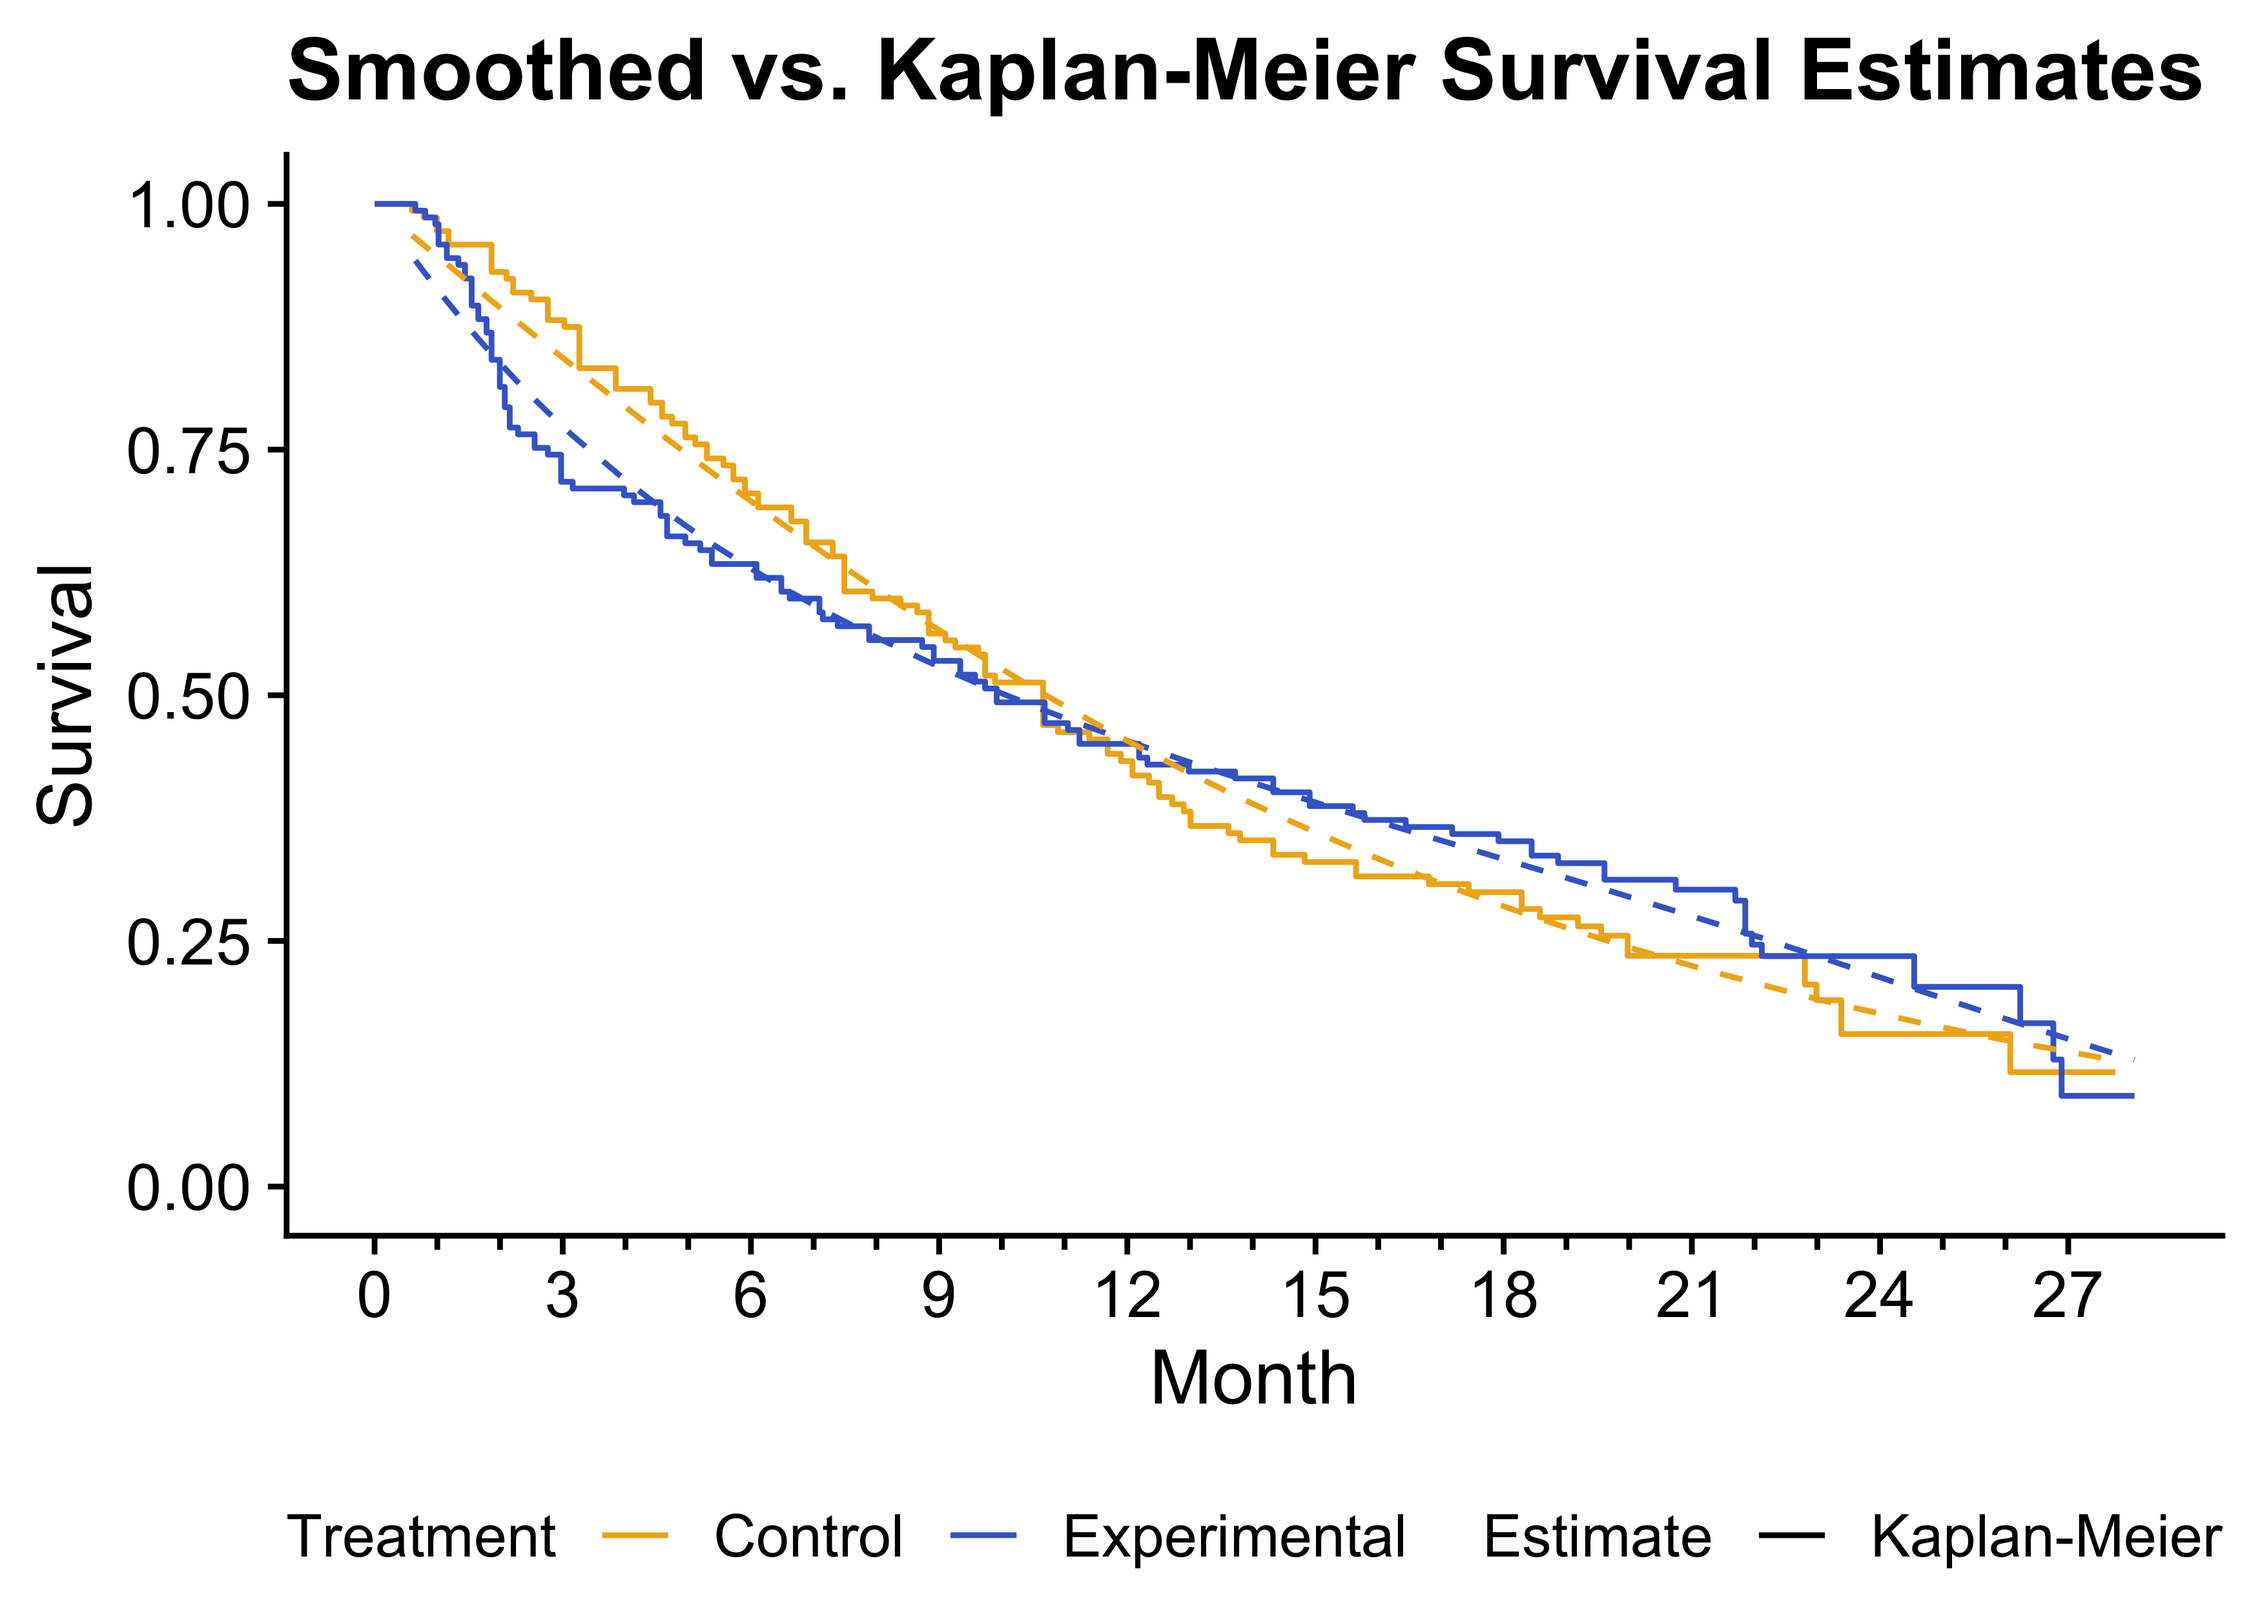
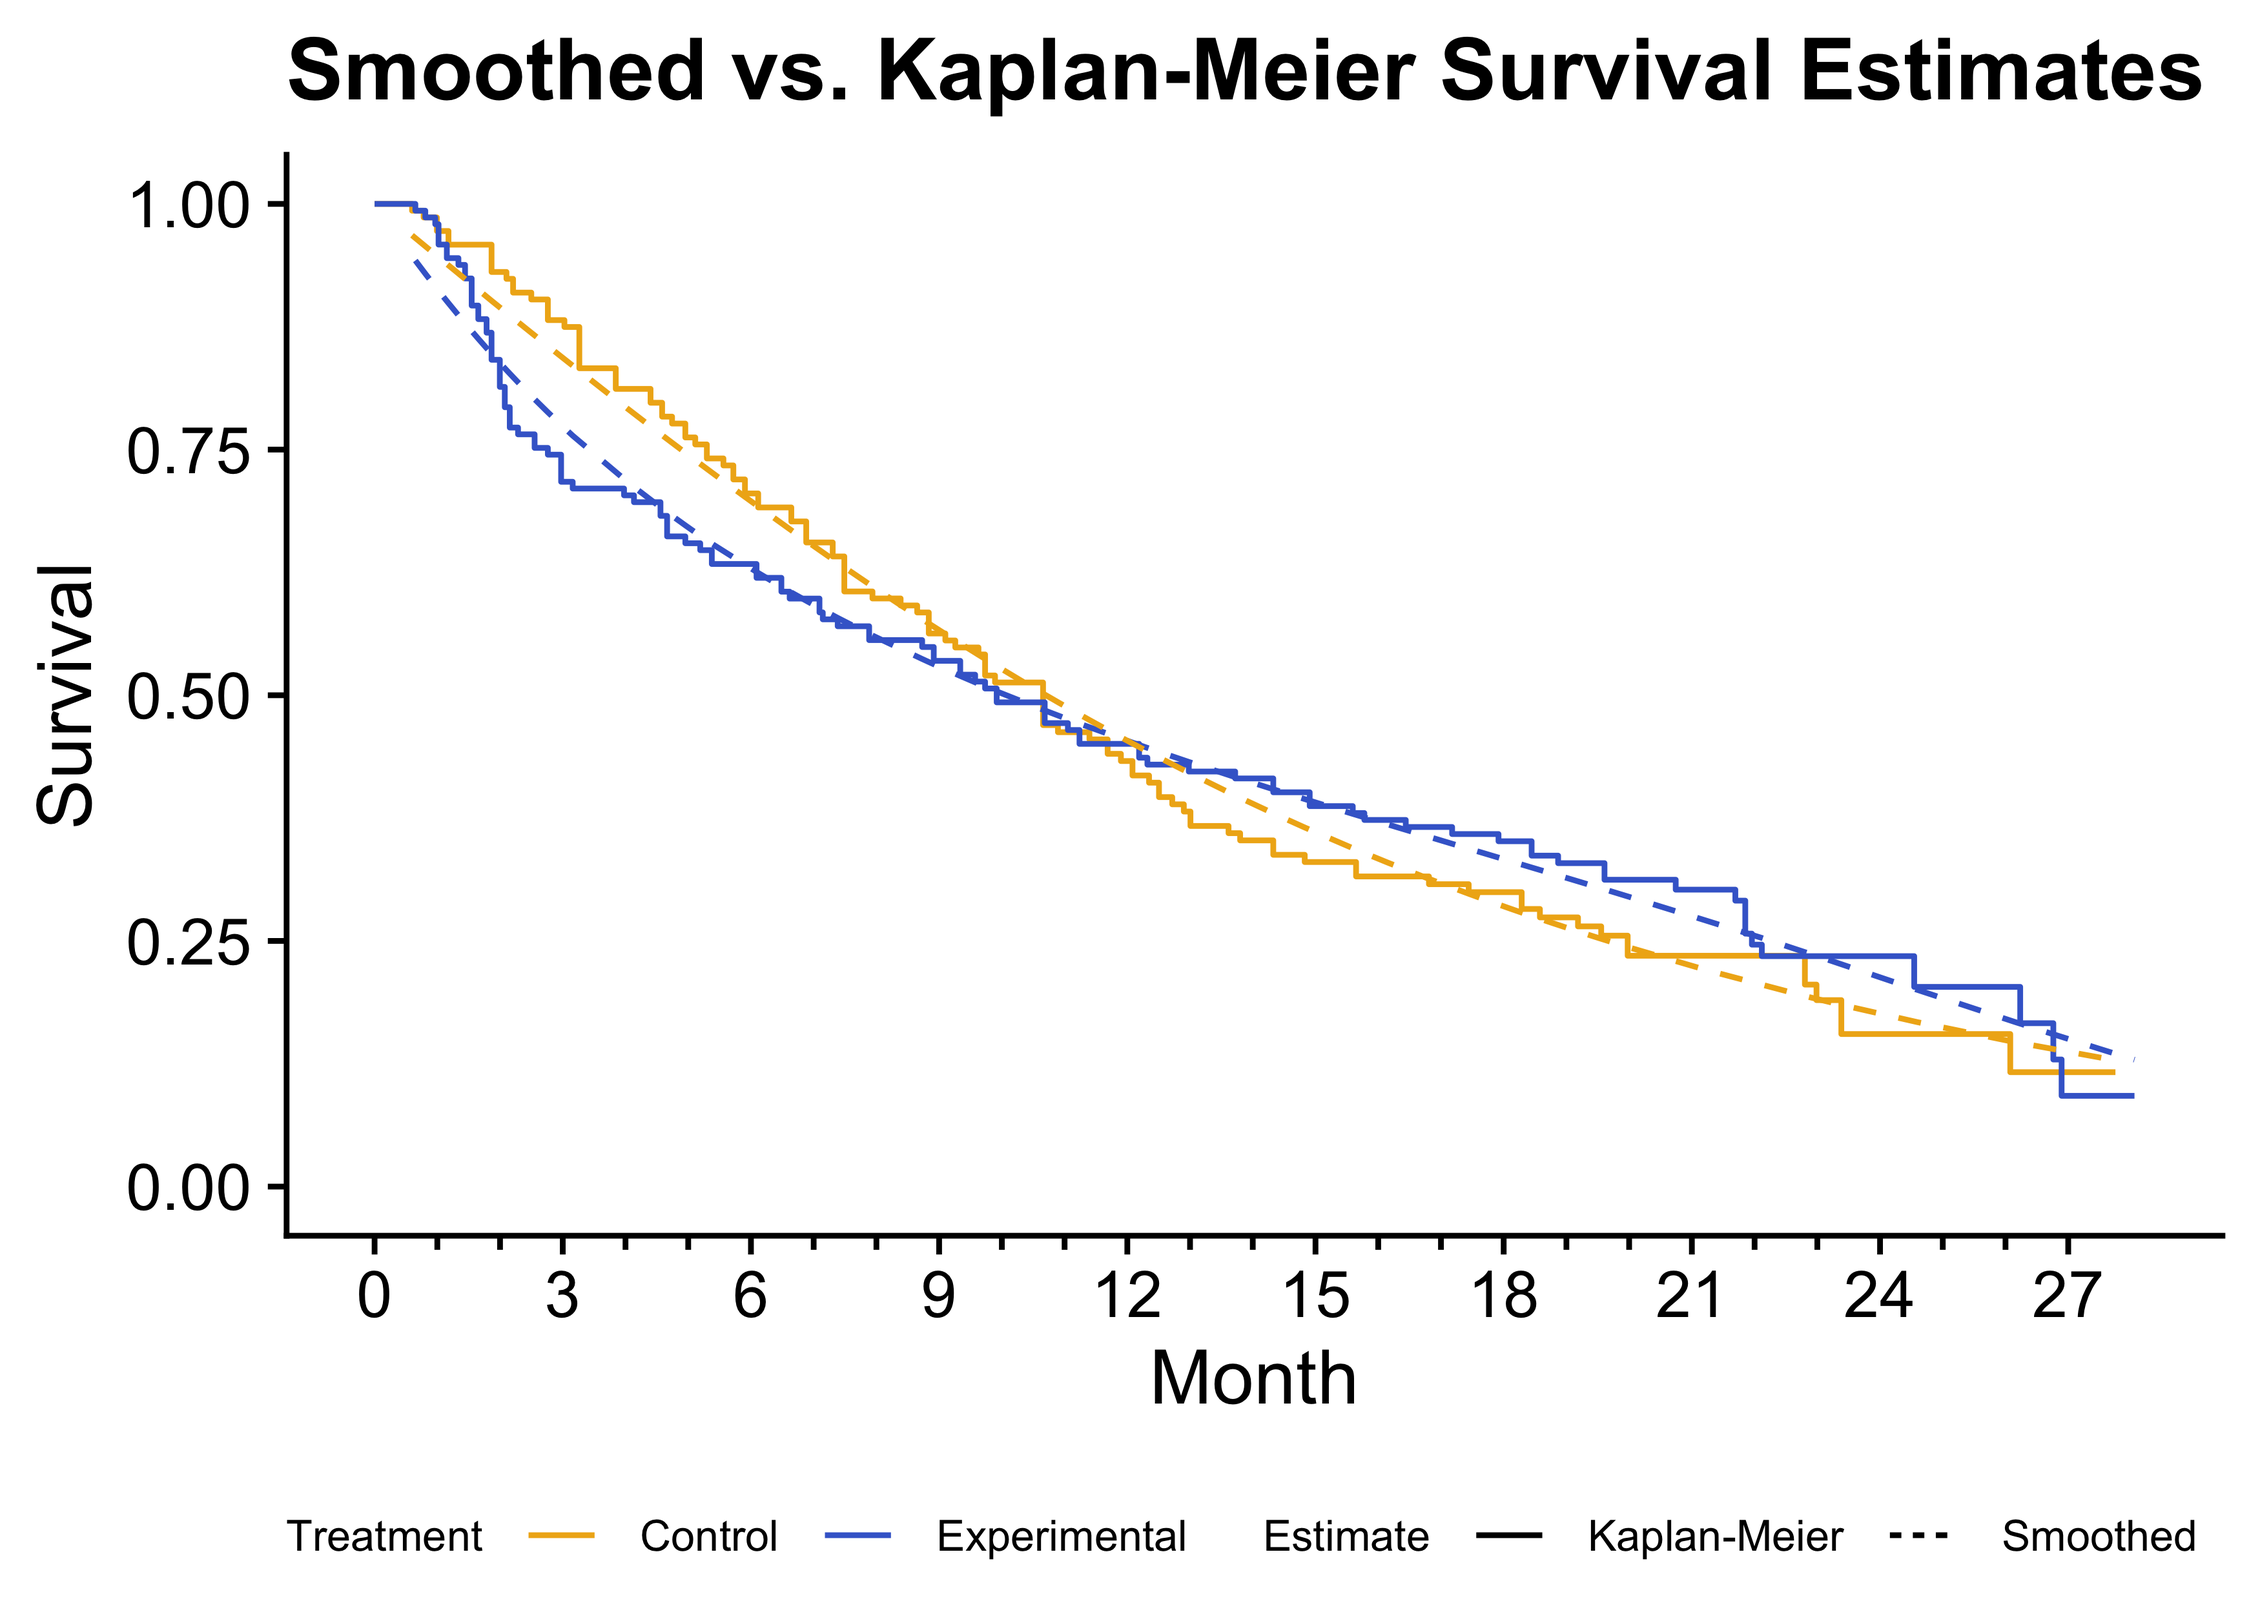
Decrease legend font size to fit in one line

Changed region(s): [[0.1246, 0.936, 0.6229, 0.9672], [0.654, 0.936, 0.9966, 0.9672]]

diff --git a/content/blog/2024-09-12-bshazard/index.html b/content/blog/2024-09-12-bshazard/index.html
@@ -203,8 +203,8 @@ ggplot(
   ggtitle(&quot;Smoothed vs. Kaplan-Meier Survival Estimates&quot;) +
   theme(
     legend.position = &quot;bottom&quot;,
-    legend.title = element_text(size = 11),
-    legend.text = element_text(size = 11)
+    legend.title = element_text(size = 8),
+    legend.text = element_text(size = 8)
   ) +
   guides(
     color = guide_legend(order = 1),
@@ -236,8 +236,8 @@ Figure 3: Comparison of smoothed survival estimates and Kaplan-Meier survival cu
   ) +
   theme(
     legend.position = &quot;bottom&quot;,
-    legend.title = element_text(size = 11),
-    legend.text = element_text(size = 11)
+    legend.title = element_text(size = 8),
+    legend.text = element_text(size = 8)
   ) +
   scale_color_discrete(labels = c(&quot;Control&quot;, &quot;Experimental&quot;)) +
   ggtitle(&quot;Smoothed vs. Kaplan-Meier Survival Estimates&quot;) +
